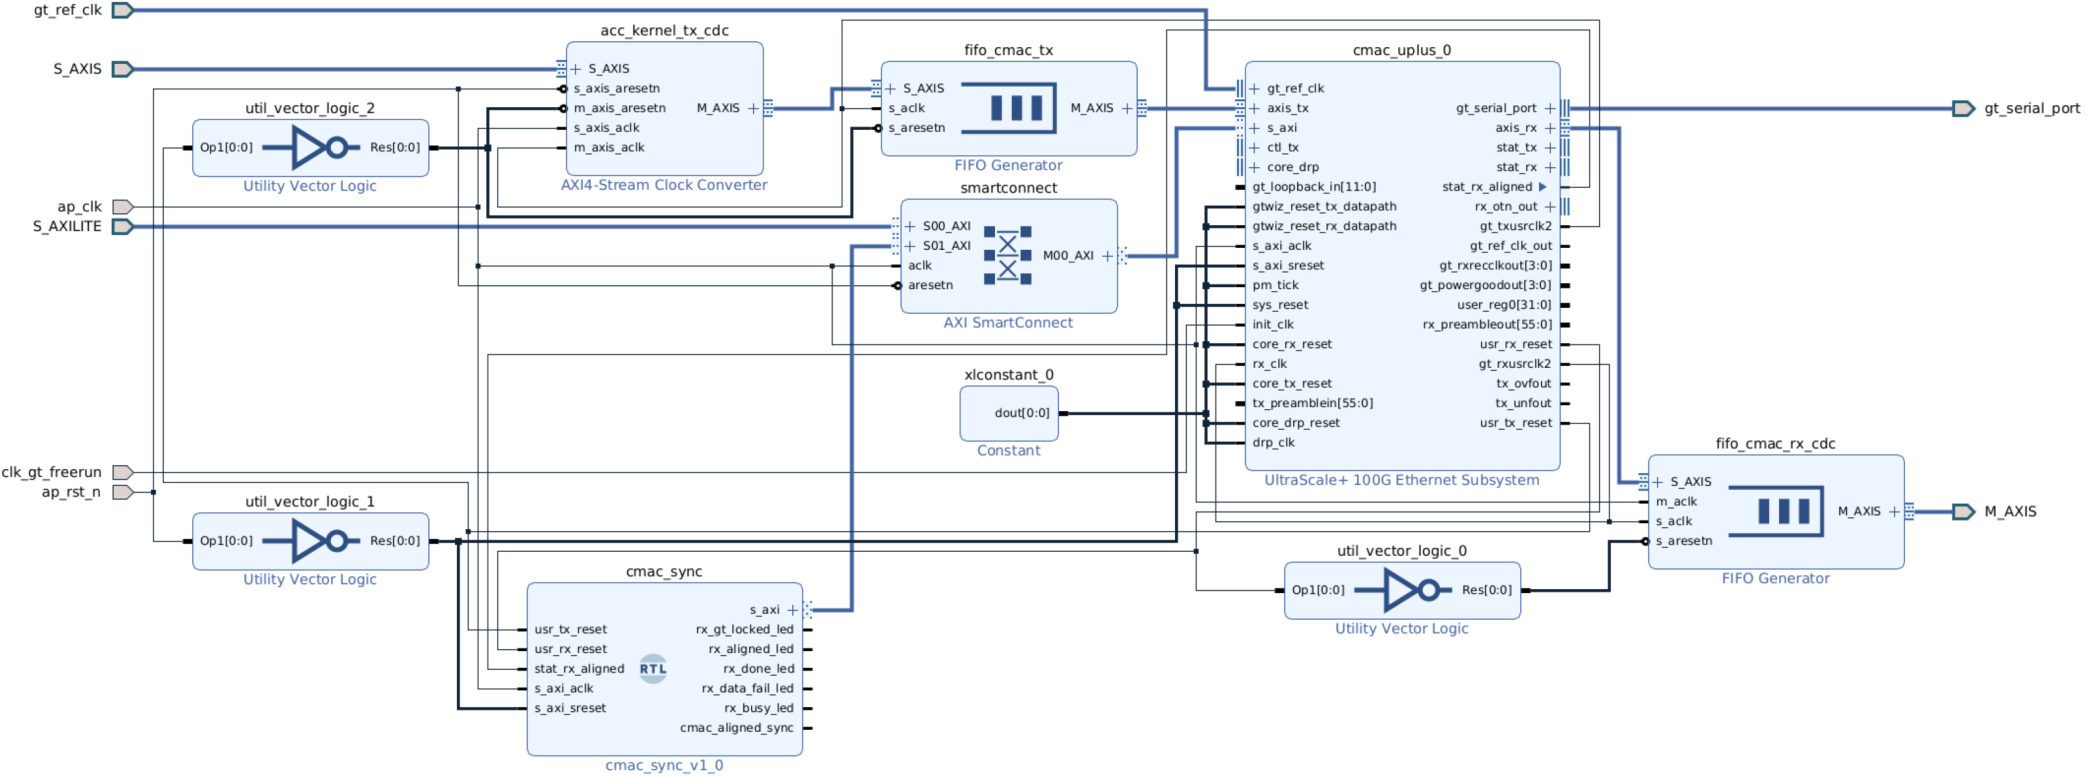
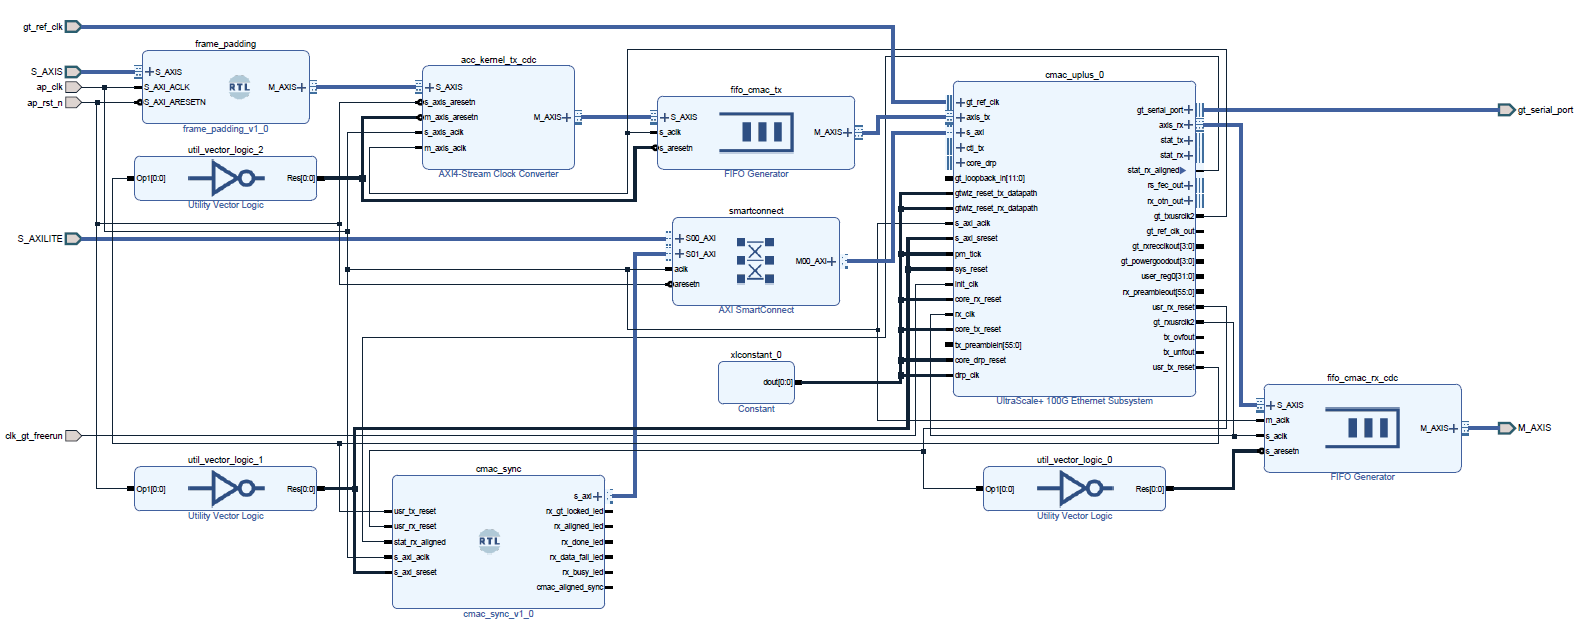
CMAC: multi-mode padding and RSFEC sub-mode 1 (#100)
* Added dual-mode padding and updated register map

* Updated sw interfaces

* Fixed padding functions

* false paths on padding flags

* Fixed padding getter

* Setting correct RSFEC sub-mode

* Refactored to compile-time selection of padding mode

* Set padding mode default to 1 (60B padding)

* Remove intenum

* Updated documentation

---------

Changed region(s): [[0.0, 0.0, 1.0, 0.9952]]

diff --git a/Notebooks/vnx_utils.py b/Notebooks/vnx_utils.py
@@ -78,7 +78,6 @@ _cmac_modes = {
         3: 'Runtime Switchable CAUI4'
     }
 
-
 class CMAC(DefaultIP):
     """This class wrapps the common function of the CMAC IP
     """
@@ -268,8 +267,17 @@ class CMAC(DefaultIP):
     def rsfec(self, operation):
         if not isinstance(operation, (int, bool)):
             raise ValueError("Operation must be int or bool")
-        self.register_map.rsfec_config_enable = 0x3 if operation else 0x0
-
+        # set RSFEC sub-mode 1 (correction and indication)
+        if operation:
+            self.register_map.rsfec_config_enable = 0x3
+            self.register_map.rsfec_config_ind_corr = 7
+            self.register_map.reset_reg = 0xC0000000
+            self.register_map.reset_reg = 0
+        else:
+            self.register_map.rsfec_config_enable = 0
+            self.register_map.rsfec_config_ind_corr = 0
+            self.register_map.reset_reg = 0xC0000000
+            self.register_map.reset_reg = 0
 
 def _byte_ordering_endianess(num, length=4):
     """

diff --git a/xrt_host_api/include/vnx/cmac.hpp b/xrt_host_api/include/vnx/cmac.hpp
@@ -50,6 +50,7 @@ public:
 
   /* Get RS FEC */
   bool get_rs_fec();
+
 private:
   xrt::ip cmac;
 
@@ -67,6 +68,7 @@ constexpr std::size_t conf_rx = 0x0014;
 constexpr std::size_t core_mode = 0x0020;
 constexpr std::size_t version = 0x0024;
 constexpr std::size_t gt_loopback = 0x0090;
+constexpr std::size_t user_reg0 = 0x00CC;
 constexpr std::size_t stat_tx_status = 0x0200;
 constexpr std::size_t stat_rx_status = 0x0204;
 constexpr std::size_t stat_status = 0x0208;
@@ -128,6 +130,7 @@ constexpr std::size_t stat_rx_packets_bad_fcs = 0x06C8;
 constexpr std::size_t stat_rx_stomped_fcs = 0x06D0;
 constexpr std::size_t stat_rx_pause = 0x06F8;
 constexpr std::size_t stat_rx_user_pause = 0x0700;
-
+// FEC
+constexpr std::size_t rsfec_config_ind_corr = 0x1000;
 constexpr std::size_t rsfec_config_enable = 0x107C;
 } // namespace vnx

diff --git a/xrt_host_api/src/cmac.cpp b/xrt_host_api/src/cmac.cpp
@@ -102,6 +102,9 @@ bool CMAC::get_loopback() {
 
 void CMAC::set_rs_fec(bool rs_fec) {
   cmac.write_register(rsfec_config_enable, rs_fec ? 0x3 : 0x0);
+  cmac.write_register(rsfec_config_ind_corr, rs_fec ? 0x7 : 0x0);
+  cmac.write_register(reset_reg, 0xC0000000);
+  cmac.write_register(reset_reg, 0);
 }
 
 bool CMAC::get_rs_fec() {

diff --git a/Ethernet/README.md b/Ethernet/README.md
@@ -6,7 +6,7 @@ This documents provides an overview of the cmac kernel.
 
 The `cmac` kernel is an RTL free running kernel which encapsulates the [UltraScale+ Integrated 100G Ethernet Subsystem](https://www.xilinx.com/products/intellectual-property/cmac_usplus.html). The kernel uses `ap_ctrl_none` as hardware control protocol. 
 
-This kernel is configured according to the `INTERFACE` and `DEVICE` arguments passed to make. It exposes two 512-bit AXI4-Stream interfaces (S_AXIS and M_AXIS) to the user logic, which run at the same frequency as the kernel, internally it has CDC (clock domain crossing) logic to convert from kernel clock to the 100G Ethernet Subsystem clock. It also provides and AXI4-Lite interface to check the UltraScale+ Integrated 100G Ethernet Subsystem register map.
+This kernel is configured according to the `INTERFACE`, `DEVICE`, and `PADDING_MODE` arguments passed to make. It exposes two 512-bit AXI4-Stream interfaces (S_AXIS and M_AXIS) to the user logic, which run at the same frequency as the kernel, internally it has CDC (clock domain crossing) logic to convert from kernel clock to the 100G Ethernet Subsystem clock. It also provides and AXI4-Lite interface to check the UltraScale+ Integrated 100G Ethernet Subsystem register map.
 
 ![](../img/cmac_kernel.png)
 
@@ -14,11 +14,15 @@ This kernel is configured according to the `INTERFACE` and `DEVICE` arguments pa
 
 The 100G Ethernet Subsystem offers an integrated 100 Gigabit per second (Gbps) Ethernet Media Access Controller (MAC), Physical Coding Sublayer (PCS), IEEE 802.3bj Reed-Solomon Forward Error Correction (RS-FEC), and 100GE Auto-Negotiation/Link Training (AN/LT) IP to enable solutions such as KR4, CR4, SR4, CWDM4, PSM4, or ER4f for high performance applications.
 
-> **Note:** RS-FEC and Auto-Negotiation/Link Training are not enabled in this kernel.
+> **Note:** Auto-Negotiation/Link Training is not enabled in this kernel.
 
 ### cmac_sync
 
 This IP implements the Core Bring Up Sequence described in the [PG203](https://docs.xilinx.com/v/u/en-US/pg203-cmac-usplus)
+
+### frame_padding
+
+This IP implements optional frame padding to 60 or 64 bytes. The padding mode is set at compile-time by the `PADDING_MODE` parameter as follows: mode `0` indicates no padding, mode `1` (default) pads to 60 bytes, and mode `2` pads to 64 bytes. 
 
 ### Clock Domain Crossing
 
@@ -63,9 +67,10 @@ To generate the an xclbin file that uses the [UltraScale+ Integrated 100G Ethern
 
 > **Note:** To enable Auto-Negotiation/Link Training you would need a separate license. Check the documentation for more information.
 
-## Enabling RS-FEC
+## Changing RS-FEC
 
-To enable RS-FEC, you need to modify the [bd_cmac.tcl](bd_cmac.tcl#147) file and set the `CONFIG.INCLUDE_RS_FEC` to 1. There are also some steps required at runtime, please refer to the [UltraScale+ Integrated 100G Ethernet Subsystem](https://www.xilinx.com/products/intellectual-property/cmac_usplus.html) documentation for more details.
+RS-FEC is enabled by default in the CMAC instance. At runtime RS-FEC is deactivated by default and can be activated by calling the corresponding functions in the Pynq and C++ drivers. When active, the RS-FEC is set to sub-mode 1 (both correction and indication active). Please refer to the [UltraScale+ Integrated 100G Ethernet Subsystem](https://www.xilinx.com/products/intellectual-property/cmac_usplus.html) documentation for more details. 
 
+> **Note:** When active, RS-FEC increases latency.
 ------------------------------------------------------
 <p align="center">Copyright&copy; 2022 Xilinx</p>

diff --git a/README.md b/README.md
@@ -32,7 +32,7 @@ This section provides a brief overview of the common infrastructure needed for t
 
 ### CMAC kernel
 
-The `cmac_kernel` contains an UltraScale+ Integrated 100G Ethernet Subsystem. This kernel is configured according to the `INTERFACE` and `DEVICE` arguments passed to make. It exposes two 512-bit AXI4-Stream interfaces (S_AXIS and M_AXIS) to the user logic, which run at the same frequency as the kernel, internally it has CDC (clock domain crossing) logic to convert from kernel clock to the 100G Ethernet Subsystem clock. It also provides and AXI4-Lite interface to check *cmac* statistics.
+The `cmac_kernel` contains an UltraScale+ Integrated 100G Ethernet Subsystem. This kernel is configured according to the `INTERFACE`, `DEVICE`, and `PADDING_MODE` arguments passed to make. It exposes two 512-bit AXI4-Stream interfaces (S_AXIS and M_AXIS) to the user logic, which run at the same frequency as the kernel, internally it has CDC (clock domain crossing) logic to convert from kernel clock to the 100G Ethernet Subsystem clock. It also provides and AXI4-Lite interface to check *cmac* statistics.
 
 For more information check out [Ethernet/README.md](Ethernet/README.md).
 
